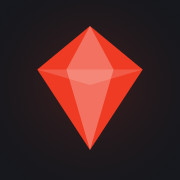
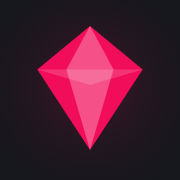
Test accent color: #F20D5B
Trying the pink accent site-wide. One-commit change so it's trivially
revertible:

- --pulse tokens: #EF3B23 -> #F20D5B, hover step #D60B50, and every
  hardcoded rgba(239,59,35,*) -> rgba(242,13,91,*) (button glows, claim
  ring, seal tint, FAB shadow).
- Regenerated the baked assets in the new hue: hero/CTA background
  streaks, OG share card, apple-touch-icon, favicon.
- Press-kit swatch + hex and README design-system notes updated; README
  now documents the accent as a swappable token rather than naming a
  fixed hue.

Everything else inherits via var(--pulse). Verified 68/68 Playwright
checks. Revert this commit to return to the ember red-orange.

Claude-Session: https://claude.ai/code/session_01MMLZMDqHSc8UPS7PizoYdQ

Changed region(s): [[0.1944, 0.1389, 0.8056, 0.8333]]

diff --git a/css/styles.css b/css/styles.css
@@ -19,9 +19,9 @@
   --ink-06: rgba(22, 24, 29, 0.06);
 
   /* 3 — Pulse: the ember red-orange accent */
-  --pulse: #ef3b23;
-  --pulse-deep: #d92f18;      /* hover step of the same hue */
-  --pulse-12: rgba(239, 59, 35, 0.12);
+  --pulse: #f20d5b;
+  --pulse-deep: #d60b50;      /* hover step of the same hue */
+  --pulse-12: rgba(242, 13, 91, 0.12);
   --on-pulse: #ffffff;        /* text/icon color on top of the accent */
 
   /* On-ink neutrals (tint steps of snow) */
@@ -156,7 +156,7 @@ button { font: inherit; color: inherit; background: none; border: 0; cursor: poi
 .btn--pulse {
   background: var(--pulse);
   color: var(--on-pulse);
-  box-shadow: 0 4px 14px rgba(239, 59, 35, 0.28);
+  box-shadow: 0 4px 14px rgba(242, 13, 91, 0.28);
 }
 .btn--pulse:hover { background: var(--pulse-deep); transform: translateY(-1px); }
 .btn--pulse:active { transform: translateY(0); }
@@ -1094,7 +1094,7 @@ button { font: inherit; color: inherit; background: none; border: 0; cursor: poi
 }
 
 .demo-runner__radius {
-  fill: rgba(239, 59, 35, 0.1);
+  fill: rgba(242, 13, 91, 0.1);
   stroke: var(--pulse);
   stroke-width: 1.5;
   stroke-dasharray: 5 6;
@@ -1727,7 +1727,7 @@ button { font: inherit; color: inherit; background: none; border: 0; cursor: poi
   font-weight: 700;
   line-height: 1;
   border-radius: 50%;
-  box-shadow: 0 8px 22px rgba(239, 59, 35, 0.4);
+  box-shadow: 0 8px 22px rgba(242, 13, 91, 0.4);
 }
 
 .app__card {
@@ -2155,7 +2155,7 @@ button { font: inherit; color: inherit; background: none; border: 0; cursor: poi
   animation: sc-seal 9s ease infinite;
 }
 
-.sc-seal circle { fill: rgba(239, 59, 35, 0.1); }
+.sc-seal circle { fill: rgba(242, 13, 91, 0.1); }
 
 .sc-seal path { stroke: var(--pulse); stroke-width: 2.4; stroke-linecap: round; stroke-linejoin: round; fill: none; }
 

diff --git a/press.html b/press.html
@@ -57,13 +57,13 @@
         </ul>
 
         <h2>Brand</h2>
-        <p>Ember red-orange on a black-forward frame. Grays are opacity steps
+        <p>Pulse pink on a black-forward frame. Grays are opacity steps
         of ink — never another hue.</p>
 
         <div class="swatches">
           <div class="swatch">
-            <div class="swatch__chip" style="background:#EF3B23"></div>
-            <div class="swatch__meta"><strong>Pulse</strong><code>#EF3B23</code></div>
+            <div class="swatch__chip" style="background:#F20D5B"></div>
+            <div class="swatch__meta"><strong>Pulse</strong><code>#F20D5B</code></div>
           </div>
           <div class="swatch">
             <div class="swatch__chip" style="background:#16181D"></div>

diff --git a/README.md b/README.md
@@ -42,16 +42,16 @@ pending a real store URL.
 
 ## Design system
 
-**Ember red-orange × black.** The brand accent is the app's pulse color —
-`#EF3B23`, deliberately red-shifted off Strava's orange — set against a
-black-forward frame, so the identity reads as red-orange *with* black
-rather than Strava's orange-on-white:
+**Pulse × black.** The brand accent is the app's pulse color — currently
+`#F20D5B` (a test shade; swap the `--pulse` tokens in `css/styles.css` to
+change it site-wide) — set against a black-forward frame, so the identity
+reads as accent-*with*-black rather than Strava's orange-on-white:
 
 | Token | Value | Role |
 |---|---|---|
 | Snow  | `#FAFAF8` bg / `#FFFFFF` cards | Surfaces |
 | Ink   | `#16181D` (+ 0.55 gray text, + 0.12 hairlines) | Text, icons, dark bands (hero, ticker, rarity, CTA) |
-| Pulse | `#EF3B23` (+ opacity ramp) | THE accent: CTAs, kickers, gems, live stats |
+| Pulse | `#F20D5B` (+ opacity ramp) | THE accent: CTAs, kickers, gems, live stats |
 
 Grays are opacity steps of ink — never another hue. The ticker strip is the
 mix in one line: black band, red type. Gem rarity is a pulse-opacity ramp
